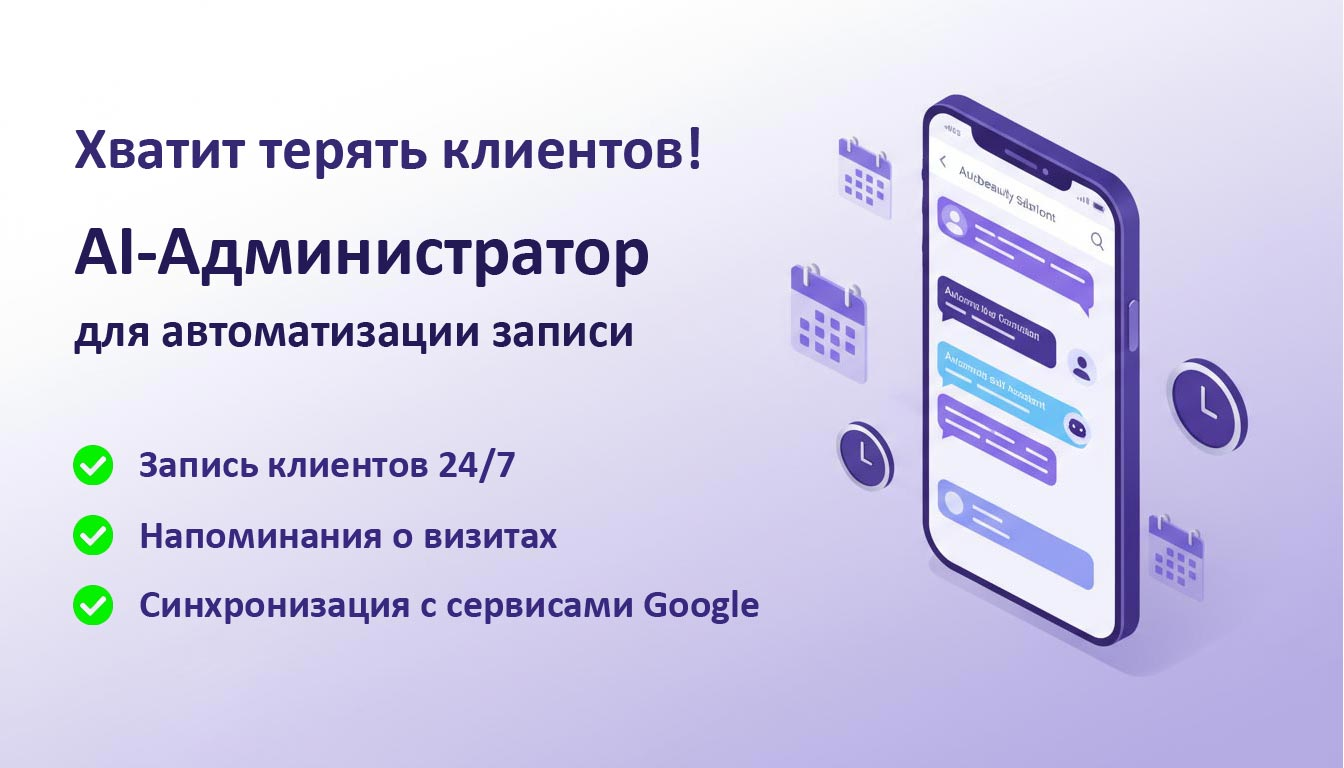
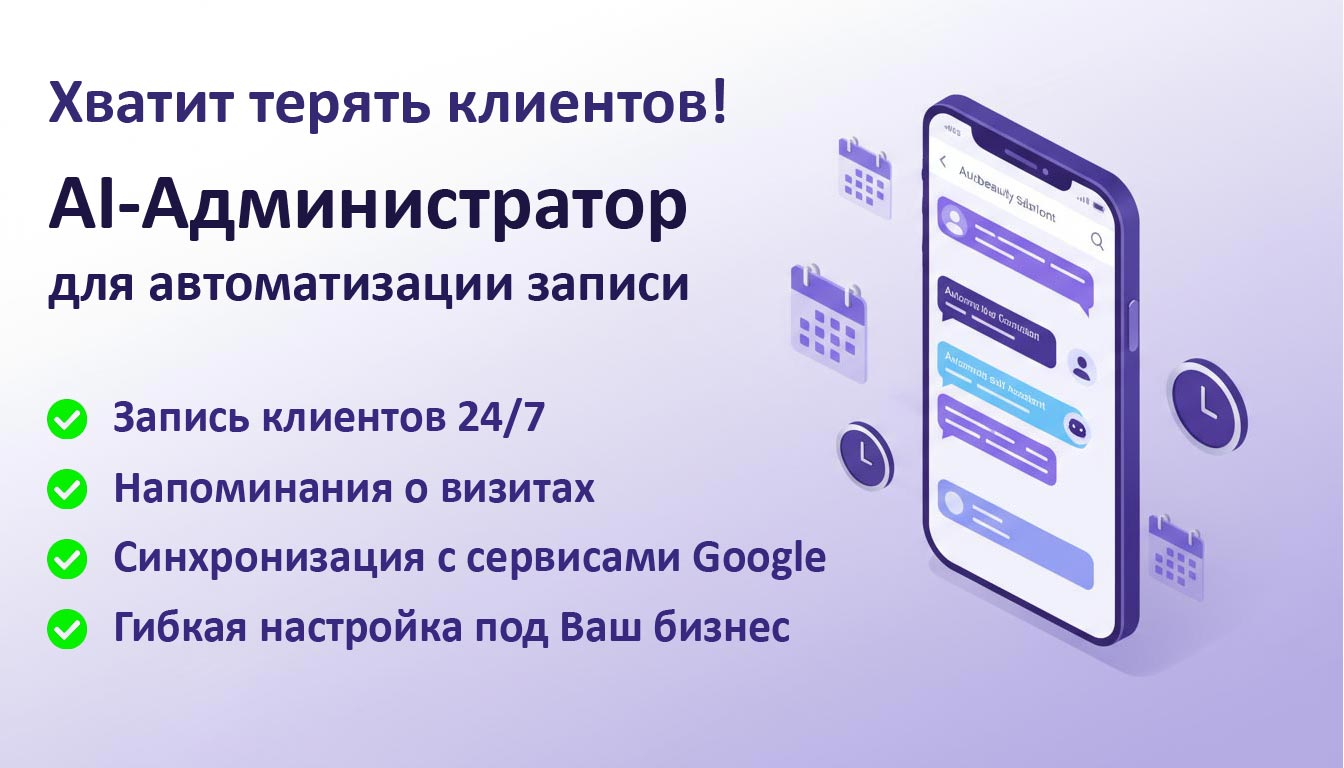
corrected images

Changed region(s): [[0.0312, 0.0938, 0.5625, 0.4688], [0.0312, 0.5, 0.625, 0.8438]]

diff --git a/index.html b/index.html
@@ -11,7 +11,7 @@
     <!-- Шрифты Google -->
     <link href="https://fonts.googleapis.com/css2?family=Inter:wght@300;400;600;700&display=swap" rel="stylesheet">
     <link rel="icon" type="image/png" href="favicon.png">
-    <meta property="og:title" content="AI-Администратор для  для записи 24/7">
+    <meta property="og:title" content="AI-Администратор для записи 24/7">
     <meta property="og:description" content="Запись 24/7, синхронизация с Google Calendar и никаких ошибок. Попробуйте демо!">
     <meta property="og:image" content="https://eugeneche.github.io/beauty-salon-ai-agent-ru/og-image.jpg">
     <meta property="og:url" content="https://eugeneche.github.io/beauty-salon-ai-agent-ru/">
@@ -57,7 +57,7 @@
 
             <div class="md:w-1/2 text-center md:text-left mb-10 md:mb-0">
                 <div class="inline-block px-3 py-1 mb-4 text-xs font-semibold tracking-wider text-indigo-600 uppercase bg-indigo-100 rounded-full">
-                    New Technology 2025
+                    New Technology 2026
                 </div>
                 <h1 class="text-4xl md:text-6xl font-bold leading-tight mb-6">
                     Ваш идеальный администратор <br>
@@ -86,7 +86,7 @@
     <section id="features" class="py-20 bg-white">
         <div class="max-w-7xl mx-auto px-4 sm:px-6 lg:px-8">
             <div class="text-center mb-16">
-                <h2 class="text-3xl font-bold text-gray-900 mb-4">Больше чем просто чат-бот</h2>
+                <h2 class="text-3xl font-bold text-gray-900 mb-4">Больше, чем просто чат-бот</h2>
                 <p class="text-gray-600 max-w-2xl mx-auto">Мы создали экосистему, которая закрывает 99% рутинных задач администратора салона красоты.</p>
             </div>
 
@@ -113,7 +113,7 @@
                         <i class="fa-solid fa-language text-xl"></i>
                     </div>
                     <h3 class="text-xl font-bold mb-2">Мультиязычность</h3>
-                    <p class="text-gray-600 text-sm">Свободно общается на украинском, английском, чешском и русском языках.</p>
+                    <p class="text-gray-600 text-sm">Свободно общается на языках ваших клиентов.</p>
                 </div>
 
                 <div class="p-6 bg-gray-50 rounded-xl hover:shadow-lg transition duration-300 border border-gray-100">
@@ -206,7 +206,7 @@
         <div class="max-w-4xl mx-auto px-4 text-center">
             <h2 class="text-3xl md:text-4xl font-bold mb-6">Готовы автоматизировать свой бизнес?</h2>
             <p class="text-indigo-100 text-lg mb-10">
-                Мы предлагаем настройку "под ключ". Получите бесплатную консультацию и демо-доступ уже сегодня.
+                Мы предлагаем настройку "под ключ". Получите бесплатную консультацию уже сегодня.
             </p>
             <div class="flex flex-col sm:flex-row justify-center gap-4">
                 <a href="https://t.me/ВАШ_НИКНЕЙМ" target="_blank" class="bg-white text-indigo-600 px-8 py-4 rounded-lg font-bold shadow-lg hover:bg-gray-100 transition flex items-center justify-center">
@@ -221,7 +221,7 @@
 
     <footer class="bg-gray-900 text-gray-400 py-8">
         <div class="max-w-7xl mx-auto px-4 text-center">
-            <p>&copy; 2025 AI Automation Pro. Все права защищены.</p>
+            <p>&copy; 2025 - 2026 Web Solutions For You. Все права защищены.</p>
         </div>
     </footer>
 
